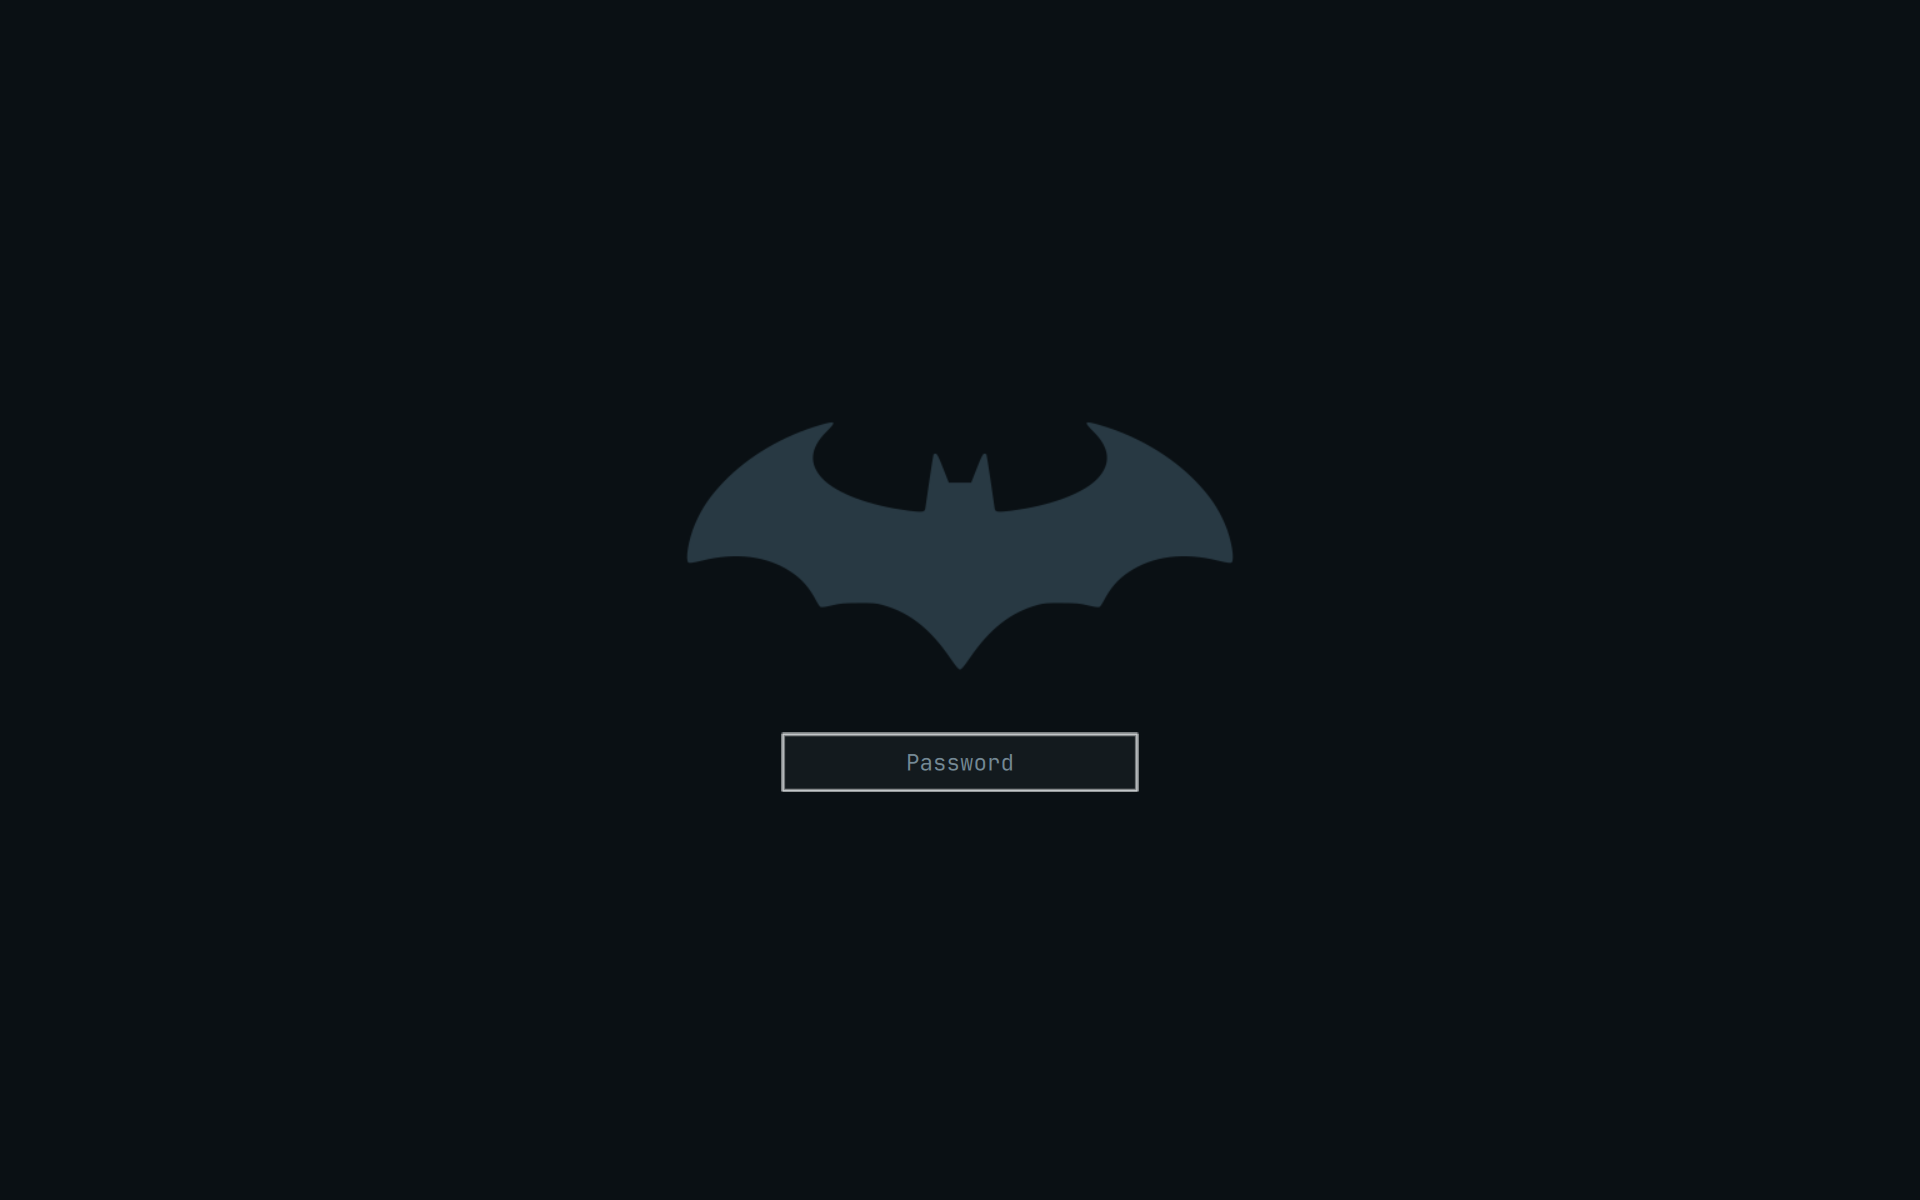
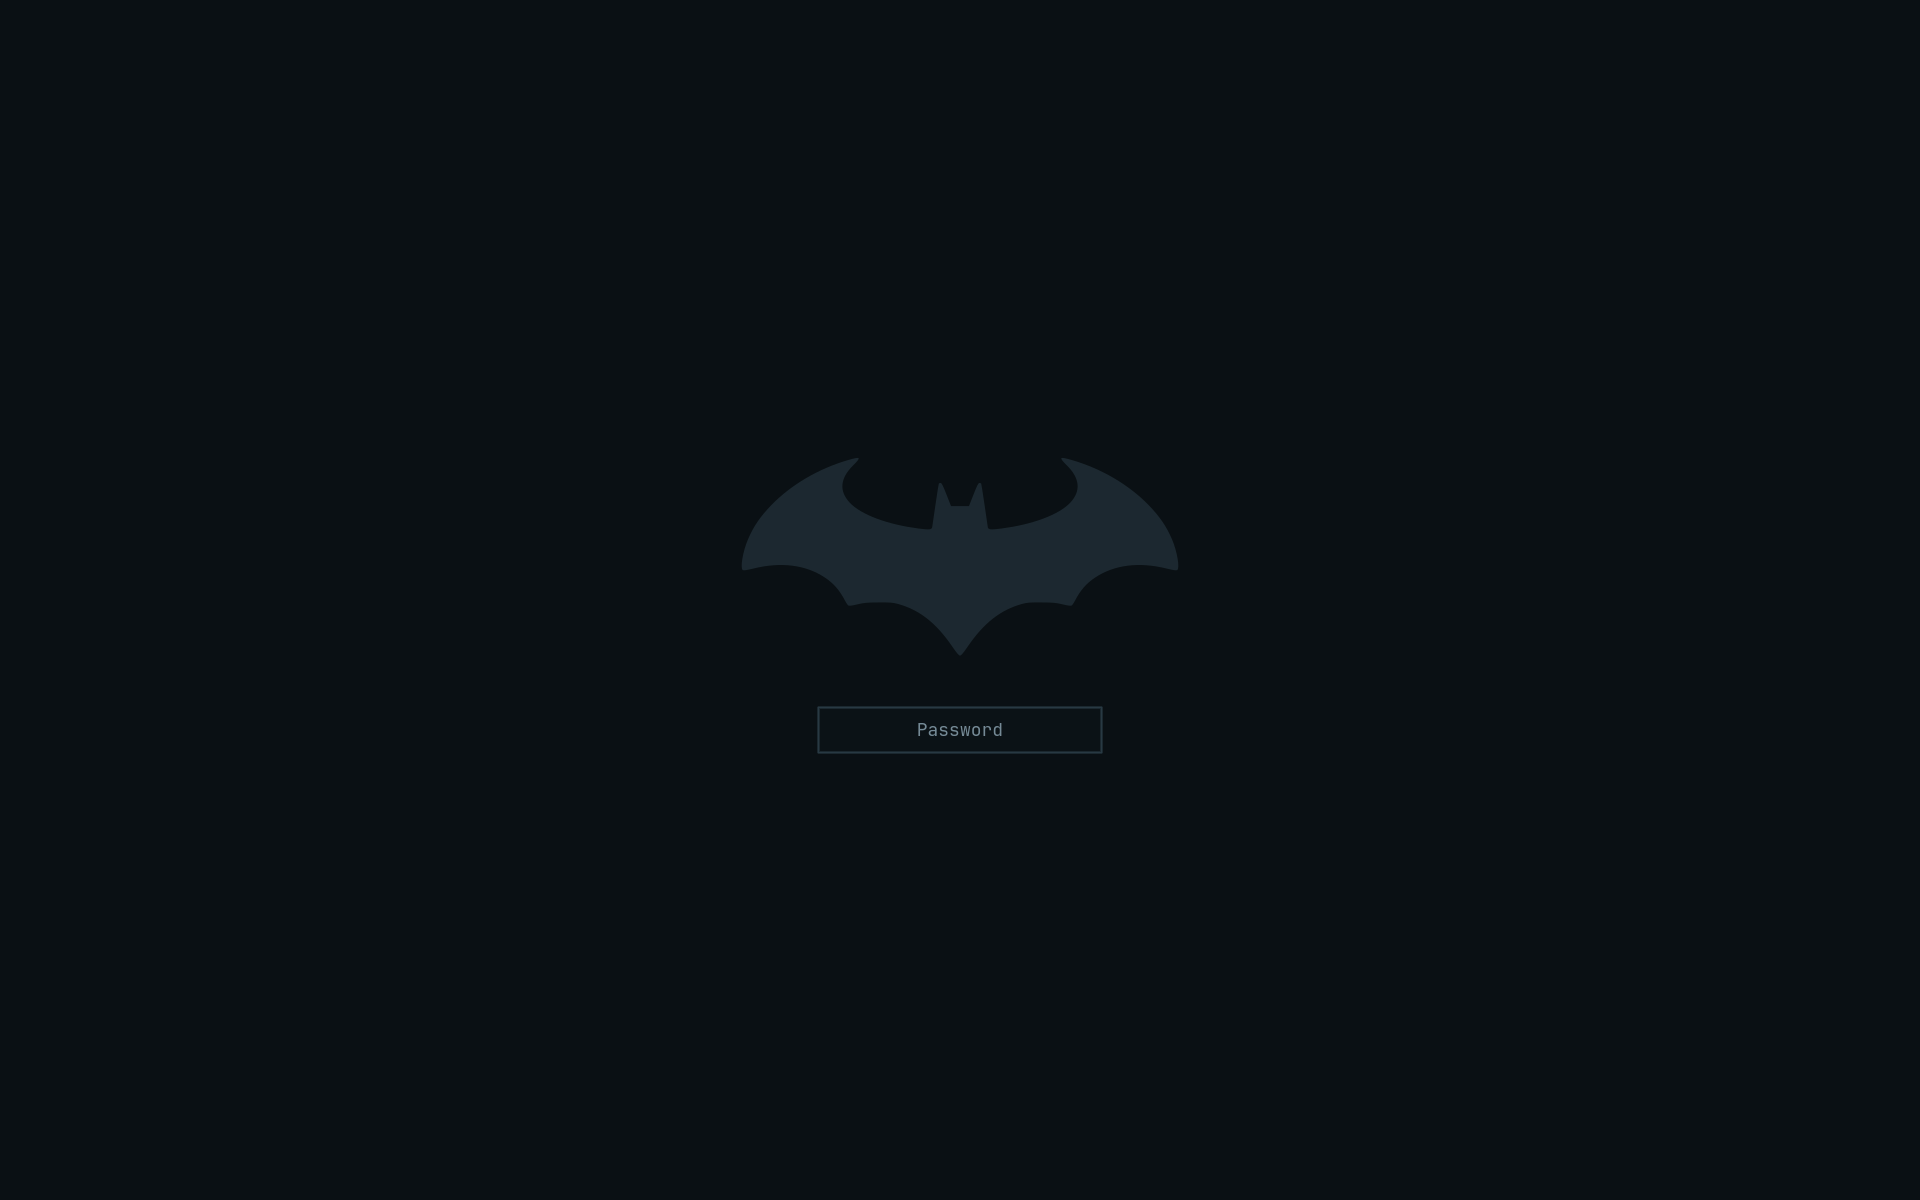
Subdue the login emblem and password border

Changed region(s): [[0.3438, 0.3392, 0.6562, 0.5242], [0.4062, 0.5858, 0.5938, 0.6783], [0.4688, 0.4933, 0.5312, 0.555]]

diff --git a/src/login.py b/src/login.py
@@ -19,11 +19,13 @@ def build(destination):
     for name in ('entry.png', 'entry-failed.png', 'bullet.png', 'lock.png', 'lock-failed.png'):
         shutil.copy2(source/name, destination/name)
         colour = palette['red'] if 'failed' in name else palette['foreground']
+        if name == 'entry.png':
+            colour = palette['line']
         subprocess.run(['magick', str(destination/name), '-channel', 'RGB',
                         '+level-colors', f'{colour},{colour}', str(destination/name)], check=True)
     logo = (f'<svg xmlns="http://www.w3.org/2000/svg" width="600" height="220" '
             f'viewBox="0 0 600 220"><path d="{path(.44, 300, 110)}" '
-            f'fill="{palette["line"]}"/></svg>')
+            f'fill="{palette["line"]}" fill-opacity="0.6"/></svg>')
     (destination/'logo.svg').write_text(logo)
     subprocess.run(['rsvg-convert', str(destination/'logo.svg'), '-o', str(destination/'logo.png')], check=True)
     (destination/'theme.conf').write_text('[General]\n')

diff --git a/docs/DESIGN.md b/docs/DESIGN.md
@@ -218,8 +218,9 @@ are repositioned on every keystroke to stay centred as the password grows
 or shrinks. All other vendor dialogue and authentication callbacks remain
 in place. Boot previews use the same assets and dot geometry.
 
-The dedicated SDDM theme uses the wallpaper emblem colour (`line`) and centres
-its placeholder and masked dots. Its lock
+The dedicated SDDM theme uses the wallpaper emblem colour (`line`) at 60%
+opacity, with a `line` password border, and centres its placeholder and masked
+dots. Failed login retains the red border. Its lock
 icon is hidden, and its compact emblem canvas avoids excess transparent
 spacing. `src/login.py` builds the theme and `src/install-login.sh` installs
 it under /usr/local/share/sddm/themes with a theme-only override. Autologin

diff --git a/README.md b/README.md
@@ -23,8 +23,9 @@ gradients or textures. Editable SVGs are in [assets/artwork](assets/artwork/).
 Desktop PNGs are exported at 5120x3200; the SVGs scale to any resolution.
 Splash assets have transparent 1320x480 canvases. The compositions are defined
 in `src/artwork.py` and `src/scenes.py`; regeneration replaces the SVG exports.
-Boot uses a steel-blue bat emblem; login uses the subdued wallpaper emblem
-colour. Both centre password dots and hide the lock icon.
+Boot uses a steel-blue bat emblem; login uses the wallpaper emblem colour
+at 60% opacity and a blue-grey password border. Both centre password dots
+and hide the lock icon.
 
 The composition and production research is in
 [the wallpaper brief](docs/WALLPAPER-BRIEF.md).

diff --git a/docs/INSTALL.md b/docs/INSTALL.md
@@ -168,8 +168,8 @@ bash ~/.config/omarchy/themes/dark-knight/src/install-login.sh
 ```
 
 It
-uses the bat emblem in the subdued wallpaper colour, with a centred password
-placeholder and dots and no lock icon. The installer writes to
+uses the bat emblem in the wallpaper colour at 60% opacity, with a blue-grey
+password border, centred placeholder and dots, and no lock icon. The installer writes to
 `/usr/local/share/sddm/themes/dark-knight` and
 `/etc/sddm.conf.d/zz-dark-knight.conf`. It keeps backups in
 `/var/tmp/dark-knight-login.*` and does not restart SDDM or the current session.
